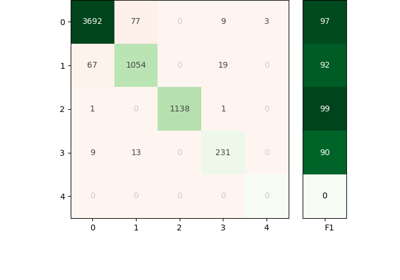
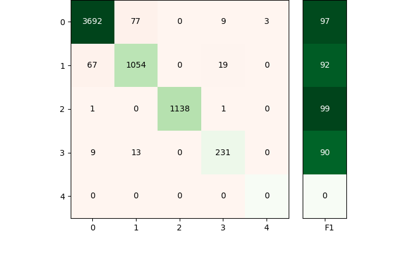
fix bug in SLOO

diff --git a/MuseoToolBox/chartsTools/__init__.py b/MuseoToolBox/chartsTools/__init__.py
@@ -20,7 +20,7 @@ import itertools
 
 
 class plotConfusionMatrix:
-    def __init__(self,cm,**kwargs):      
+    def __init__(self,cm,cmap=plt.cm.Greens,**kwargs):      
         self.cm = np.array(cm)
         self.cm_ = np.copy(cm)
         self.axes = []
@@ -35,21 +35,23 @@ class plotConfusionMatrix:
         self.xrotation = 0
         self.yrotation = 0
         
-        self.fig = plt.figure(1,tight_layout=True)
-        self.ax.imshow(cm,interpolation='nearest', aspect='equal',cmap=plt.cm.Greens,vmin=self.vmin,vmax=self.vmax)
         self.ax.set_yticks(range(self.cm.shape[0]))
+        
+        self.fig = plt.figure(1,tight_layout=True)
+        self.ax.imshow(cm,interpolation='nearest', aspect='equal',cmap=cmap,vmin=self.vmin,vmax=self.vmax)
+        
         self.kwargs = kwargs
         self.subplot = False
         self.axes.append(self.ax)
-    def addText(self,thresold=False):
+    def addText(self,thresold=False,alpha=1,alpha_zero=1):
         if thresold is False:
-            thresold = np.mean(self.cm)
+            thresold = int(np.amax(self.cm)/2)
         for i, j in itertools.product(range(self.cm.shape[0]), range(self.cm.shape[1])):   
             if not np.ma.is_masked(self.cm[i,j]):
                 #print(cm[i,j])
                 self.ax.text(j, i, str(self.cm[i,j]),
                  horizontalalignment="center",
-                 color="white" if self.cm[i, j] > thresold else '#cccccc' if self.cm[i,j] == 0 else "#444444" ,va='center')
+                 color="white" if self.cm[i, j] > thresold else 'black',va='center',alpha=alpha_zero if self.cm[i,j] == 0 else alpha)
             else:
                 print(self.cm2[i,j])
                 self.ax.text(j, i, str(self.cm2[i,j]),
@@ -113,7 +115,7 @@ class plotConfusionMatrix:
             
             self.ax1v.text(0,i,txt,horizontalalignment="center",color="white" if verticalPlot[i] > 50 else "black",va='center')
         self.axes.append(self.ax1v)
-    def colorDiag(self):
+    def colorDiag(self,matrixCmap=plt.cm.Greens,diagCmap=plt.cm.Reds):
         
         if self.cm.shape[0] != self.cm.shape[1]:
             raise Exception('Array must have the same number of lines and columns')
@@ -124,10 +126,10 @@ class plotConfusionMatrix:
         self.cm2 = np.ma.masked_array(self.cm,mask=np.logical_not(mask))
         self.cm = np.ma.masked_array(self.cm,mask=mask)
         
-        self.ax.imshow(self.cm2,interpolation='nearest',aspect='equal',cmap=plt.cm.Greens,vmin=np.amin(self.cm_),vmax=np.amax(self.cm_),alpha=1)
-        self.ax.imshow(self.cm,interpolation='nearest',aspect='equal',cmap=plt.cm.Reds,vmin=np.amin(self.cm_),vmax=np.amax(self.cm_),alpha=1)
+        self.ax.imshow(self.cm2,interpolation='nearest',aspect='equal',cmap=matrixCmap,vmin=np.amin(self.cm_),vmax=np.amax(self.cm_),alpha=1)
+        self.ax.imshow(self.cm,interpolation='nearest',aspect='equal',cmap=diagCmap,vmin=np.amin(self.cm_),vmax=np.amax(self.cm_),alpha=1)
     
-    def addAccuracy(self):
+    def addAccuracy(self,thresold=50):
         
         if self.subplot is not False:
             raise Warning('You can\'t add two subplots. You already had '+str(self.subplot))
@@ -150,10 +152,19 @@ class plotConfusionMatrix:
         self.ax1h.set_xticks([])
         
         for i in range(self.cm.shape[0]):
-            self.ax1v.text(0,i,np.int(np.array(np.diag(self.cm_)/np.sum(self.cm_,axis=1)*100).reshape(-1,1)[i][0]),ha='center')
+            try:
+                iVal = np.int(np.array(np.diag(self.cm_)/np.sum(self.cm_,axis=1)*100).reshape(-1,1)[i][0])
+            except:
+                iVal = 0
+            self.ax1v.text(0,i,iVal,color="white" if iVal>thresold else 'black',ha='center')
+                
         self.ax1v.set_yticklabels([])
         for j in range(self.cm.shape[1]):
-            self.ax1h.text(j,0,np.int(np.array(np.diag(self.cm_)/np.sum(self.cm_,axis=0)*100).reshape(-1,1)[j][0]),ha='center')
+            try:
+                jVal = np.int(np.array(np.diag(self.cm_)/np.sum(self.cm_,axis=0)*100).reshape(-1,1)[j][0])
+            except:
+                jVal = 0 
+            self.ax1h.text(j,0,jVal,color="white" if jVal>thresold else 'black',ha='center')
         
         self.ax1h.set_yticklabels(['Prod\'s acc.'],rotation=self.yrotation,ha='right',va='center')
         

diff --git a/MuseoToolBox/crossValidationTools/crossValidationClass.py b/MuseoToolBox/crossValidationTools/crossValidationClass.py
@@ -95,11 +95,13 @@ class distanceCV:
             self.n_splits = n_splits
             if self.n_splits > self.minEffectiveClass:
                 print(
-                    'Warning : n_splits cannot be superior to the number of unique samples/stand')
+                    'Warning : n_splits is superior to the number of unique samples/groups')
+                """
                 print(
                     'Warning : n_splits will be {} instead of {}'.format(
                         self.minEffectiveClass, n_splits))
                 self.n_splits = self.minEffectiveClass
+                """
         else:
             self.n_splits = self.minEffectiveClass
 
@@ -130,15 +132,15 @@ class distanceCV:
             for C in np.unique(self.y):
                 # Y is True, where C is the unique class
                 CT = np.where(self.y == C)[0]
-                CTroi = np.where(self.y[self.mask] == C)[0]
-
-                if self.iterPos > 0:
+                currentCT = np.logical_and(self.y == C, self.mask == 1)
+                
+                if np.where(currentCT)[0].shape[0] == 0: #means no more ROI
+                    self.mask[self.y == C] = 1
                     currentCT = np.logical_and(self.y == C, self.mask == 1)
-                    self.ROI = np.random.permutation(
-                        np.where(currentCT)[0])[0]
-                else:
-                    self.ROI = np.random.permutation(CTroi)[0]
-
+                    
+                self.ROI = np.random.permutation(
+                    np.where(currentCT)[0])[0]
+                
                 # When doing Leave-One-Out per subgroup
                 if self.groups is not None:
                     if self.verbose > 1:
@@ -169,10 +171,8 @@ class distanceCV:
                         emptyTrain = True
                 # When doing Leave-One-Out per pixel
                 else:
-                    self.ROI = np.random.permutation(CT)[0]
 
-                    distanceROI = (self.distanceArray[int(self.ROI), :])[
-                        CT]  # get line of distance for specific ROI
+                    distanceROI = (self.distanceArray[int(self.ROI), :])[CT]  # get line of distance for specific ROI
                     tmpValid = np.array(
                         [self.ROI], dtype=np.int64)
                     tmpTrain = CT[distanceROI >
@@ -206,9 +206,9 @@ class distanceCV:
                            header="Label,Ntrain,Mean dist train")
 
             self.iterPos += 1
-            # Mask selected validation
             self.mask[validation] = 0
-            if emptyTrain is True and self.iterPos < self.n_splits:
+            # Mask selected validation
+            if emptyTrain is True : #and self.iterPos < self.n_splits:
                 print('Train has no samples, doing next spatial iteration')
                 next(self)
             else:

diff --git a/MuseoToolBox/stats/__init__.py b/MuseoToolBox/stats/__init__.py
@@ -12,8 +12,8 @@
 # @site:    www.karasiak.net
 # @git:     www.github.com/lennepkade/MuseoToolBox
 # =============================================================================
+from __future__ import division 
 import numpy as np
-           
 
 def commissionOmission(table):
     """
@@ -32,9 +32,9 @@ def commissionOmission(table):
     com, om = [[], []]
     for i in range(table.shape[0]):
         com.append((np.sum(table[i, :]) - table[i, i]
-                    ) / float(np.sum(table[i, :])) * 100)
+                    ) / np.sum(table[i, :]) * 100)
         om.append((np.sum(table[:, i]) - table[i, i]) /
-                  float(np.sum(table[:, i])) * 100)
+                  np.sum(table[:, i]) * 100)
     return com, om
 
 
@@ -141,3 +141,13 @@ class statsFromConfusionMatrix:
 
             f1.append(2 * TP / (2 * TP + FP + FN))
         return f1
+
+if __name__ == '__main__':
+               
+    cm = np.random.randint(30,90,100).reshape(10,10)
+    cm[-1,:-1] = 0
+    cm[0:5,5] = 0
+    cm[6:-1,5] = 0
+    cmo = commissionOmission(cm)
+    print(cmo[0][-1] == 0)
+    print(cmo[1][5] == 0)

diff --git a/MuseoToolBox/rasterTools/__init__.py b/MuseoToolBox/rasterTools/__init__.py
@@ -300,6 +300,23 @@ def getSamplesFromROI(inRaster, inVector, *fields, **kwargs):
 
 
 def rasterize(data, vectorSrc, field, outFile, gdt=gdal.GDT_Int16):
+    """
+    Rasterize vector to the size of data (raster)
+    
+    Parameters
+    -----------
+    data : str
+        path of raster
+    vectorSrc : str
+        path of vector
+    field : str
+        field to rasteirze (False is no field)
+    outFile : str
+        raster file where to save the rasterization
+    gdt : int
+        gdal GDT datatype (default gdal.GDT_Int16 = 3)
+    """
+
     dataSrc = gdal.Open(data)
     import ogr
     shp = ogr.Open(vectorSrc)
@@ -448,6 +465,7 @@ class rasterMath:
             outRaster, self.nc, self.nl, outNBand, outGdalDT)
         dst_ds.SetGeoTransform(self.GeoTransform)
         dst_ds.SetProjection(self.Projection)
+        
         self.outputs.append(dst_ds)
 
     def __iterBlock__(self, getBlock=False):

diff --git a/examples/chartsTools/plotConfusionAcc.py b/examples/chartsTools/plotConfusionAcc.py
@@ -3,7 +3,7 @@
 Plot confusion matrix from Cross-Validation with F1
 ========================================================
 
-Plot confusion matrix from Cross-Validation, with F1 as subplot.
+Plot confusion matrix from Cross-Validation, with accuracy (user/prod) as subplot.
 
 """
 
@@ -66,7 +66,7 @@ import numpy as np
 meanCM = np.mean(cms,axis=0)[0,:,:].astype(np.int16)
 pltCM = plotConfusionMatrix(meanCM.T) # Translate for Y = prediction and X = truth
 pltCM.addText()
-pltCM.addF1()
+pltCM.addAccuracy()
 pltCM.colorDiag()
 
 ##############################################################################

diff --git a/docs/source/auto_examples/chartsTools/plotConfusion.py b/docs/source/auto_examples/chartsTools/plotConfusion.py
@@ -66,7 +66,7 @@ for cm in LAP.getStatsFromCV(confusionMatrix=True):
 import numpy as np
 meanCM = np.mean(cms,axis=0)[0,:,:].astype(np.int16)
 pltCM = plotConfusionMatrix(meanCM.T) # Translate for Y = prediction and X = truth
-pltCM.addText(thresold=1500)
+pltCM.addText()
 pltCM.addF1()
 pltCM.colorDiag()
 
@@ -76,6 +76,6 @@ pltCM.colorDiag()
 
 meanCM = meanCM.astype('float') / meanCM.sum(axis=1)[:, np.newaxis]*100
 pltCM = plotConfusionMatrix(meanCM.astype(int).T)
-pltCM.addText(thresold=50)
+pltCM.addText(alpha_zero=0.3) # in order to hide a little zero values
 pltCM.addF1()
 pltCM.colorDiag()

diff --git a/MuseoToolBox/__init__.py b/MuseoToolBox/__init__.py
@@ -13,6 +13,6 @@
 # @git:     www.github.com/lennepkade/MuseoToolBox
 # =============================================================================
 from __future__ import absolute_import
-from . import learnTools, vectorTools, rasterTools, crossValidationTools, datasets,stats
+from . import learnTools, vectorTools, rasterTools, crossValidationTools, datasets,stats,chartsTools
 
 __version__ = "0.9"

diff --git a/examples/crossValidation/SpatialLeaveOnePixelOut.py b/examples/crossValidation/SpatialLeaveOnePixelOut.py
@@ -42,7 +42,7 @@ print(SLOPO.get_n_splits(X,y))
 
 for tr,vl in SLOPO.split(X,y):
     print(tr.shape,vl.shape)
-
+    
 #############################################
 # Draw image
 import numpy as np

diff --git a/docs/source/auto_examples/chartsTools/plotConfusion.rst b/docs/source/auto_examples/chartsTools/plotConfusion.rst
@@ -227,7 +227,7 @@ Plot confusion matrix
     import numpy as np
     meanCM = np.mean(cms,axis=0)[0,:,:].astype(np.int16)
     pltCM = plotConfusionMatrix(meanCM.T) # Translate for Y = prediction and X = truth
-    pltCM.addText(thresold=1500)
+    pltCM.addText()
     pltCM.addF1()
     pltCM.colorDiag()
 
@@ -250,7 +250,7 @@ Plot confusion matrix and normalize per class
 
     meanCM = meanCM.astype('float') / meanCM.sum(axis=1)[:, np.newaxis]*100
     pltCM = plotConfusionMatrix(meanCM.astype(int).T)
-    pltCM.addText(thresold=50)
+    pltCM.addText(alpha_zero=0.3) # in order to hide a little zero values
     pltCM.addF1()
     pltCM.colorDiag()
 
@@ -262,7 +262,7 @@ Plot confusion matrix and normalize per class
 
 
 
-**Total running time of the script:** ( 0 minutes  39.066 seconds)
+**Total running time of the script:** ( 0 minutes  45.450 seconds)
 
 
 .. _sphx_glr_download_auto_examples_chartsTools_plotConfusion.py:

diff --git a/docs/source/auto_examples/index.rst b/docs/source/auto_examples/index.rst
@@ -15,7 +15,7 @@ Examples related to  :mod:`museotoolbox` librairie.
 
 .. _chartsTools:
 
-Charts Tools
+chartsTools
 ------------------------
 
 Examples related to the :mod:`museotoolbox.chartsTools` module.

diff --git a/docs/source/api.rst b/docs/source/api.rst
@@ -1,3 +1,6 @@
+API
+-----------------------
+
 .. currentmodule:: MuseoToolBox
 
 .. automodule:: MuseoToolBox
